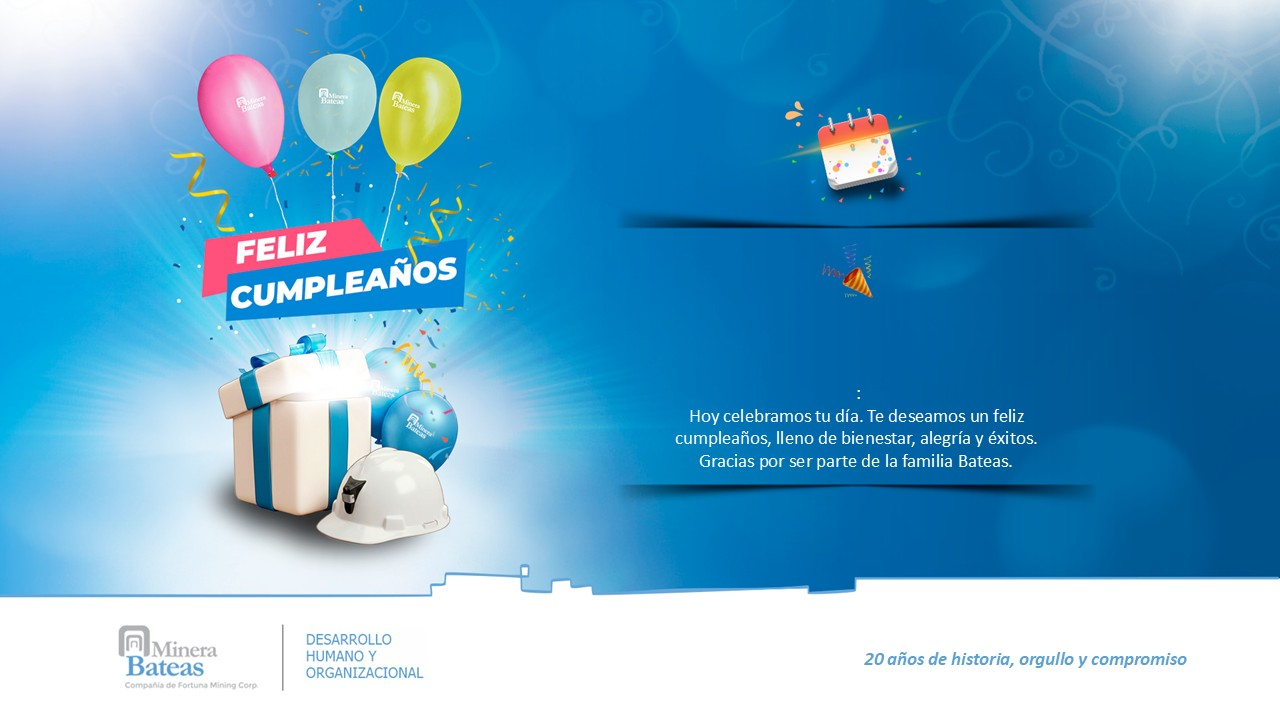
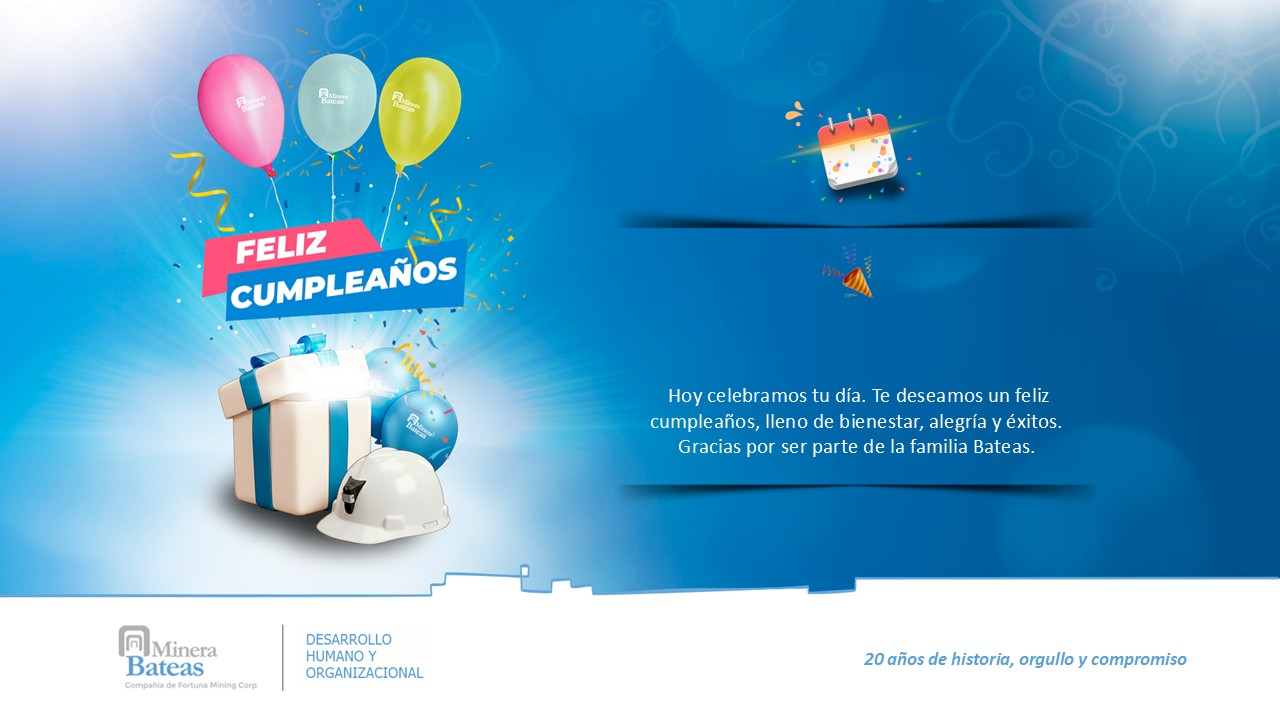
cambio de fuente

Changed region(s): [[0.5, 0.5194, 0.8438, 0.6722]]

diff --git a/app.py b/app.py
@@ -191,12 +191,12 @@ def generar_tarjeta():
         cy = img_h // 2  # centro vertical = 360px
 
         # ── Fuentes ────────────────────────────────────────────────
-        ruta_fuente      = os.path.join(os.path.dirname(__file__), 'arial.ttf')
-        ruta_fuente_bold = os.path.join(os.path.dirname(__file__), 'arialbd.ttf')
+        ruta_fuente      = os.path.join(os.path.dirname(__file__), 'calibri.ttf')
+        ruta_fuente_bold = os.path.join(os.path.dirname(__file__), 'calibrib.ttf')
         try:
             f_mes    = ImageFont.truetype(ruta_fuente_bold, ip('fmes',    15))
             f_dia    = ImageFont.truetype(ruta_fuente_bold, ip('fdia',    23))
-            f_nombre = ImageFont.truetype(ruta_fuente,      ip('fnombre', 27))
+            f_nombre = ImageFont.truetype(ruta_fuente,      ip('fnombre', 32))
             f_area   = ImageFont.truetype(ruta_fuente,      ip('farea',   27))
             f_n1     = ImageFont.truetype(ruta_fuente,      ip('fn1',     20))
         except IOError:
@@ -222,14 +222,14 @@ def generar_tarjeta():
             posicion=(ip('xdia', 830), cy + ip('ydia', -510)),
             angulo=angulo, fuente=f_dia, color=(0, 0, 0, 255))
 
-        draw.text((cx(nombre, f_nombre), cy + ip('ynombre', -58)),
+        draw.text((cx(nombre, f_nombre), cy + ip('ynombre', -56)),
             nombre, font=f_nombre, fill=(255, 255, 255, 255))
 
         draw.text((cx(area, f_area), cy + ip('yarea', -21)),
             area, font=f_area, fill=(255, 255, 255, 255))
 
-        draw.text((ip('xn1', 780), cy + ip('yn1', 21)),
-            n1, font=f_n1, fill=(255, 255, 255, 255))
+       # draw.text((ip('xn1', 780), cy + ip('yn1', 21)),
+        #    n1, font=f_n1, fill=(255, 255, 255, 255))
 
         output = io.BytesIO()
         fondo.save(output, format="PNG")